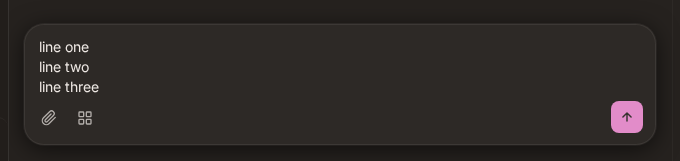
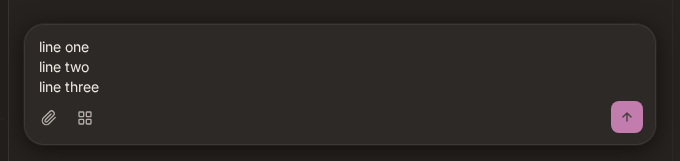
web: reserve toolbar clearance on composer card only for multi-line drafts
Move the 48px bottom clearance from the textarea to the composer card and
apply it only when the draft has two or more substantive lines. A
trailing-newline token draft keeps the 84px card, so attachment-strip
geometry and mention click targets are unchanged.

Changed region(s): [[0.8956, 0.6211, 0.9574, 0.8385]]

diff --git a/apps/web/src/detail/composer.tsx b/apps/web/src/detail/composer.tsx
@@ -59,7 +59,7 @@ const COMPOSER_PLACEHOLDER = 'px-[15px] pt-[13px] text-[14px] leading-5';
 // 差额逐条中和：方角已同形，field-sizing 回 fixed（JS grow 律），边框/
 // focus 环/暗底/过渡清零到老 UA 裸面形。
 const COMPOSER_INPUT =
-  "field-sizing-fixed h-12 min-h-0 max-h-(--composer-max-h) overflow-y-auto resize-none border-none bg-transparent px-[15px] pt-[13px] pb-[48px] [font-family:var(--font-inter),Inter,system-ui,-apple-system,'PingFang_SC','Microsoft_YaHei',sans-serif] text-[14px] leading-5 text-(--foreground) tabular-nums transition-none outline-none placeholder:text-(--text-tertiary) focus-visible:border-transparent focus-visible:ring-0 dark:bg-transparent";
+  "field-sizing-fixed h-12 min-h-0 max-h-(--composer-max-h) overflow-y-auto resize-none border-none bg-transparent px-[15px] pt-[13px] pb-0 [font-family:var(--font-inter),Inter,system-ui,-apple-system,'PingFang_SC','Microsoft_YaHei',sans-serif] text-[14px] leading-5 text-(--foreground) tabular-nums transition-none outline-none placeholder:text-(--text-tertiary) focus-visible:border-transparent focus-visible:ring-0 dark:bg-transparent";
 // 工具钮（30px 盒，XMON-55 P5 光学左缘 10px 由 toolbar 锚承载）：ghost
 // 七通道中和 + #860 hover 增亮律（tertiary → secondary，只动墨色）。
 const COMPOSER_TOOL =
@@ -192,8 +192,13 @@ export function Composer({
     growCap: 384,
   });
 
+  const multiLine = draft.replace(/\n+$/, '').split('\n').length >= 2;
+
   return (
-    <div className={`${COMPOSER_CARD} min-h-[84px]`} data-testid="composer-card">
+    <div
+      className={`${COMPOSER_CARD} min-h-[84px] ${multiLine ? 'pb-[48px]' : ''}`}
+      data-testid="composer-card"
+    >
       {editable ? (
         <div>
           {/* #728 combobox wiring: while the inline listbox is open the
